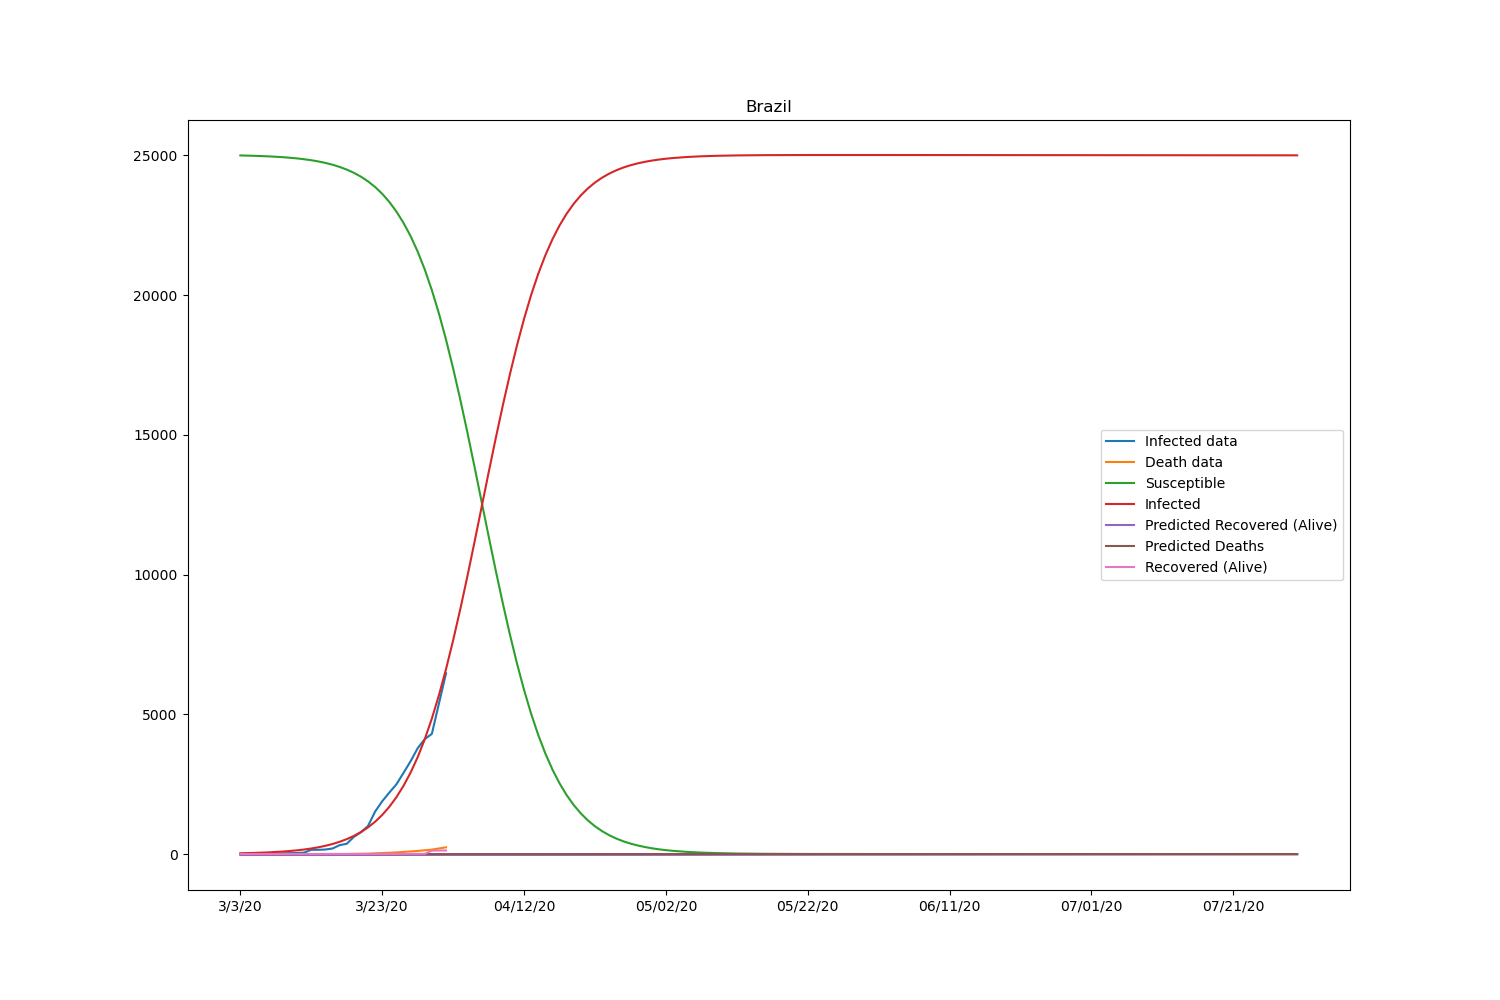
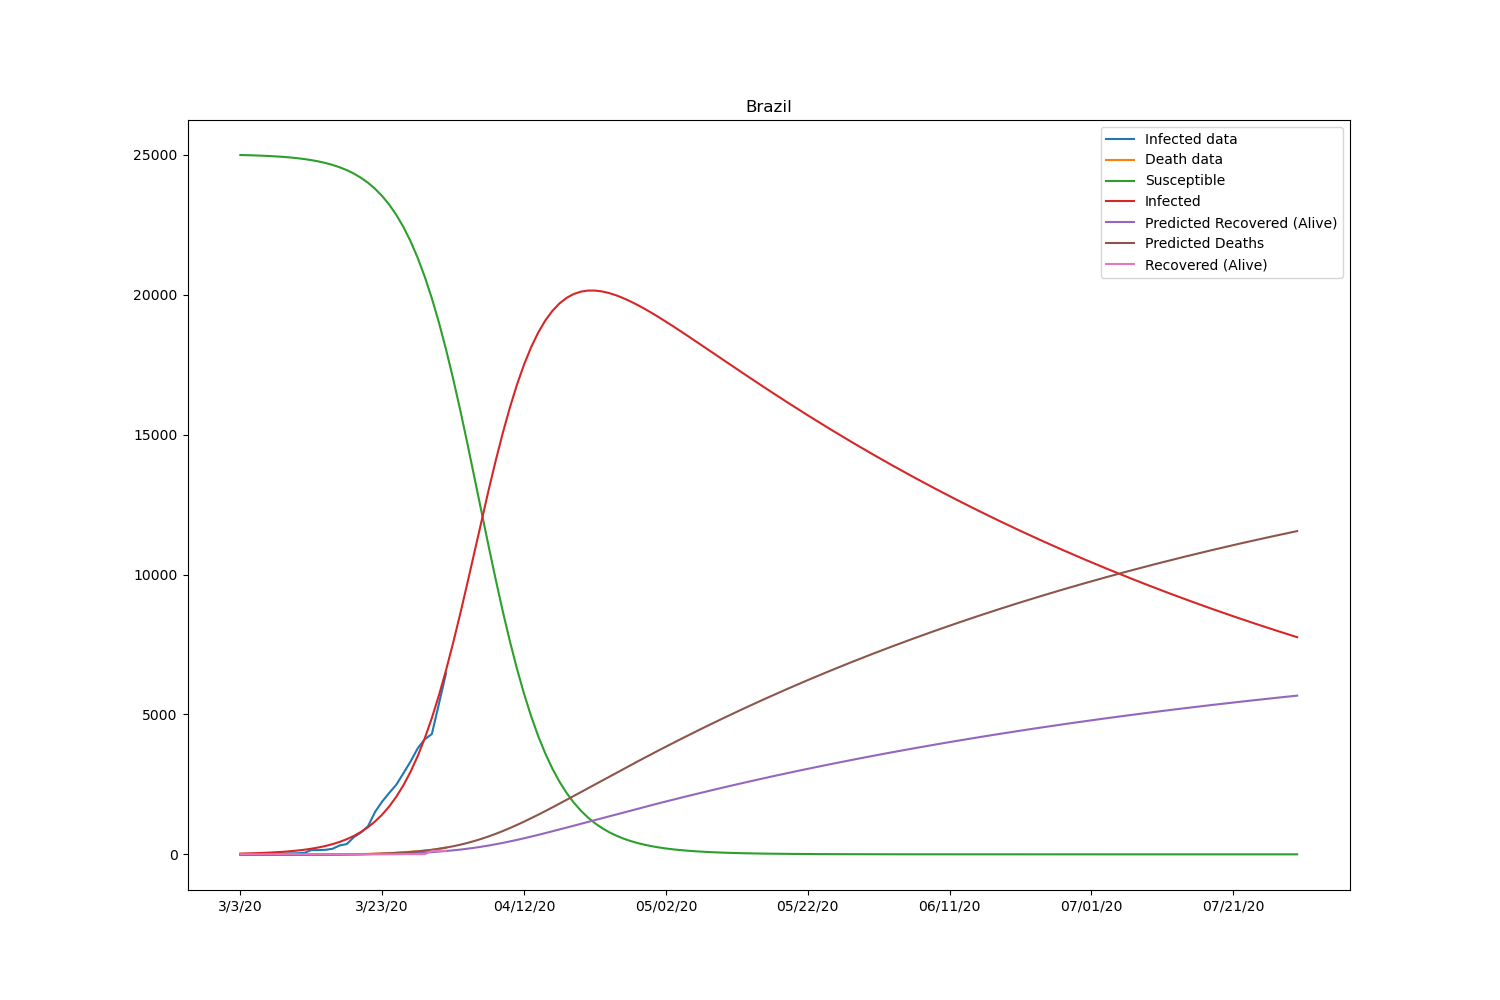
Solve ODE at predict with Odeint
Solve ODE at predict with Odeint. I managed to change structures and variables to work with odeint.

diff --git a/solver.py b/solver.py
@@ -19,7 +19,7 @@ import pdb
 def parse_arguments():
     parser = argparse.ArgumentParser()
     
-    country1="China"
+    country1="Brazil"
 
     if country1=="Brazil":
         date="3/3/20"
@@ -196,7 +196,7 @@ class Learner(object):
     def predict(self, beta, gamma, data, recovered, death, healed, country, s_0, i_0, r_0):
         new_index = self.extend_index(data.index, self.predict_range)
         size = len(new_index)
-        def SIR(t,y):
+        def SIR(y,t):
             S = y[0]
             I = y[1]
             R = y[2]
@@ -206,26 +206,25 @@ class Learner(object):
         extended_death = np.concatenate((death.values, [None] * (size - len(death.values))))
         extended_healed = np.concatenate((healed.values, [None] * (size - len(healed.values))))
 
-        sir = solve_ivp(SIR, [0, size], [s_0,i_0,r_0], t_eval=np.arange(0, size, 1))
-        R = sir.y[2][0:len(death)]
+        # solve ODE by odeint
+        y0=[s_0,i_0,r_0]
+        tspan=np.arange(0, size, 1)
+        res=odeint(SIR,y0,tspan)
+        R = res[0:len(death),2]
 
         optimal = minimize(loss2, gamma*0.02, args=(gamma, recovered, healed, death),
                           bounds=[(0.00000001, gamma),])
-
-        #I tried to change to odeint but I do not know how to make sir.y[] data structure
-        #the answer of odeint is an array not a data frame
-        #y=[res[:,0], res[:,1], res[:,2]]
-        #just need to put it in sir as sir.y[0], sir.y[1], sir.y[2]
-
         print(optimal)
-
         a = optimal.x[0]
         b = gamma - a
 
-        prediction_death = a*sir.y[2]/gamma
-        prediction_healed = sir.y[2] - prediction_death
+        prediction_death = a*res[:,2]/gamma
+        prediction_healed = res[:,2] - prediction_death
+        y0=res[:,0]
+        y1=res[:,1]
+        y2=res[:,2]
 
-        return new_index, extended_actual, extended_recovered, extended_death, sir, prediction_death, prediction_healed, extended_healed
+        return new_index, extended_actual, extended_recovered, extended_death, y0, y1, y2, prediction_death, prediction_healed, extended_healed
 
     def train(self):
         self.death = self.load_dead(self.country)
@@ -248,12 +247,12 @@ class Learner(object):
         recovered = self.recovered
         data = self.data
 
-        new_index, extended_actual, extended_recovered, extended_death, prediction, prediction_death, prediction_healed, extended_healed = self.predict(beta, gamma, data, recovered, death, healed, self.country, self.s_0, self.i_0, self.r_0)
+        new_index, extended_actual, extended_recovered, extended_death, y0, y1, y2, prediction_death, prediction_healed, extended_healed = self.predict(beta, gamma, data, recovered, death, healed, self.country, self.s_0, self.i_0, self.r_0)
 
         df = pd.DataFrame({'Infected data': extended_actual,
                             'Death data': extended_death,
-                            'Susceptible': prediction.y[0],
-                            'Infected': prediction.y[1],
+                            'Susceptible': y0,
+                            'Infected': y1,
                             'Predicted Recovered (Alive)': prediction_healed,
                             'Predicted Deaths': prediction_death,
                             'Recovered (Alive)': extended_healed},
